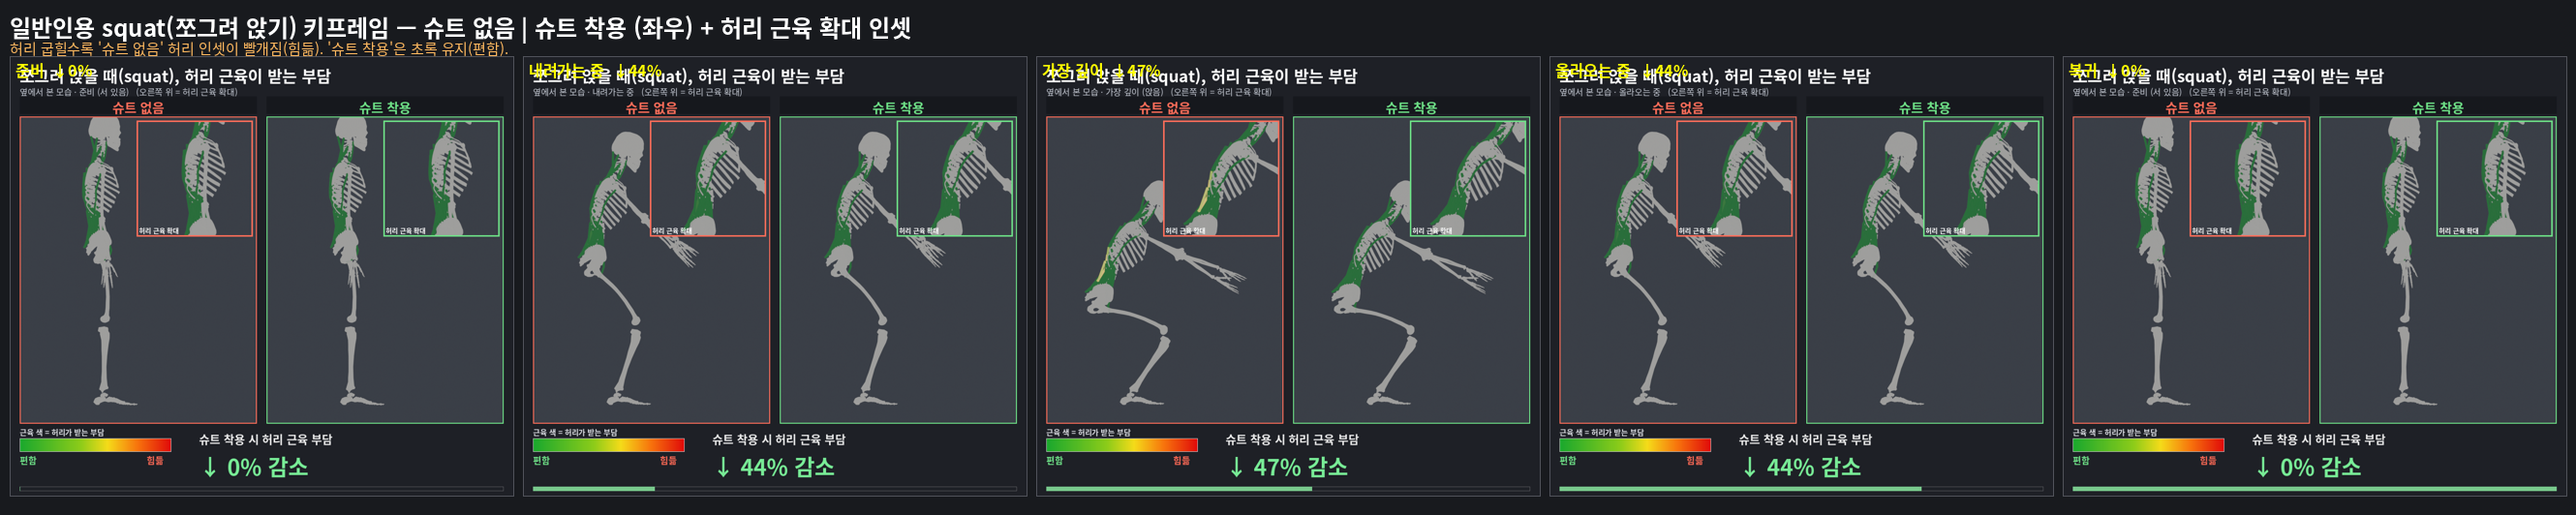
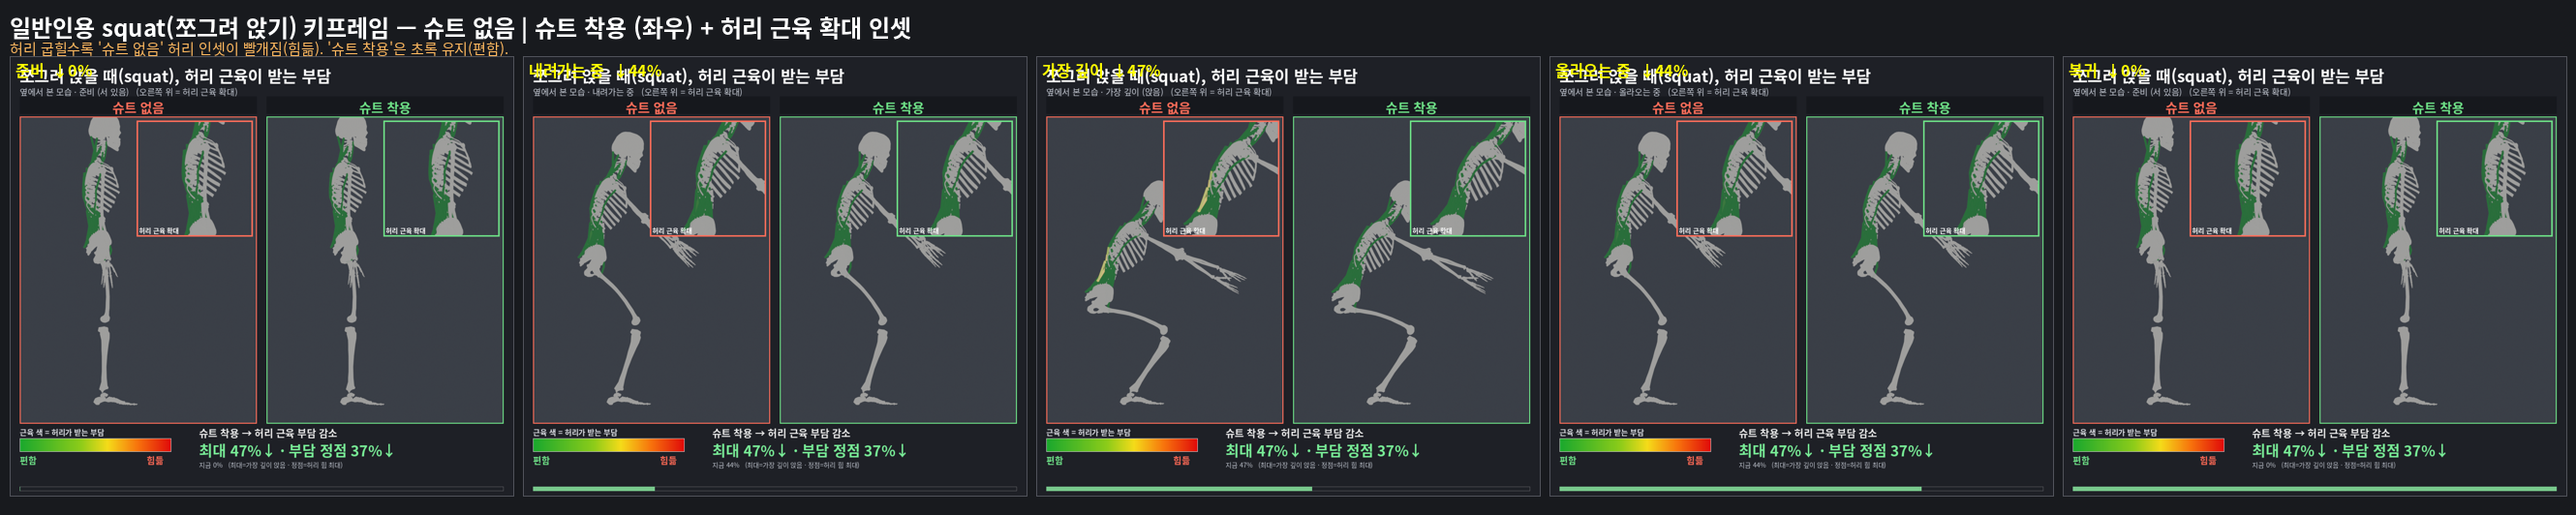
fix: squat 동영상 headline 병기 (최대 47% · 정점 37%) 확정
- 자막 headline만 수정(재렌더 X): '최대 47%↓ · 부담 정점 37%↓' + 라이브 '지금 N%'
- 의미 병기: 최대=가장 깊이 앉음(hold), 정점=허리 힘 최대(부하 정점) — 일반인 명확
- per-frame 실시간 % 유지(시점별 정직값). 동작·색·인셋·레이아웃 불변
- 타당성 확인 완료(부하-효과 단조+절대감소 일정+문헌 일치)로 squat 확정
- mp4 docs/.../squat_public_video.mp4 + /data/opensim_results/, 검증 PNG 갱신

Generated with Claude Code

diff --git a/opensim_analysis/thoracolumbar_fb/scripts/viz_knee_fix/composite_public_video2_squat.py b/opensim_analysis/thoracolumbar_fb/scripts/viz_knee_fix/composite_public_video2_squat.py
@@ -65,8 +65,9 @@ for fi in range(N):
     d.rectangle([lx,ly,lx+lw,ly+lh],outline=(200,200,200))
     d.text((lx,ly+lh+4),"편함",fill=(110,225,135),font=F(18,True)); d.text((lx+lw-48,ly+lh+4),"힘듦",fill=(255,105,85),font=F(18,True))
     mx=lx+lw+56
-    d.text((mx,ly-16),"슈트 착용 시 허리 근육 부담", fill=(235,235,235), font=F(23,True))
-    d.text((mx,ly+22),f"↓ {red:.0f}% 감소", fill=(120,235,150), font=F(44,True))
+    d.text((mx,ly-26),"슈트 착용 → 허리 근육 부담 감소", fill=(235,235,235), font=F(20,True))
+    d.text((mx,ly+2),"최대 47%↓ · 부담 정점 37%↓", fill=(120,235,150), font=F(29,True))
+    d.text((mx,ly+42),f"지금 {red:.0f}%   (최대=가장 깊이 앉음 · 정점=허리 힘 최대)", fill=(190,195,205), font=F(13))
     py=H-18; d.rectangle([PAD,py,W-PAD,py+8],outline=(90,90,95))
     d.rectangle([PAD,py,PAD+int((W-2*PAD)*fi/max(1,N-1)),py+8],fill=(120,200,140))
     cv.save(os.path.join(COMP,f"v{fi:04d}.png"))
